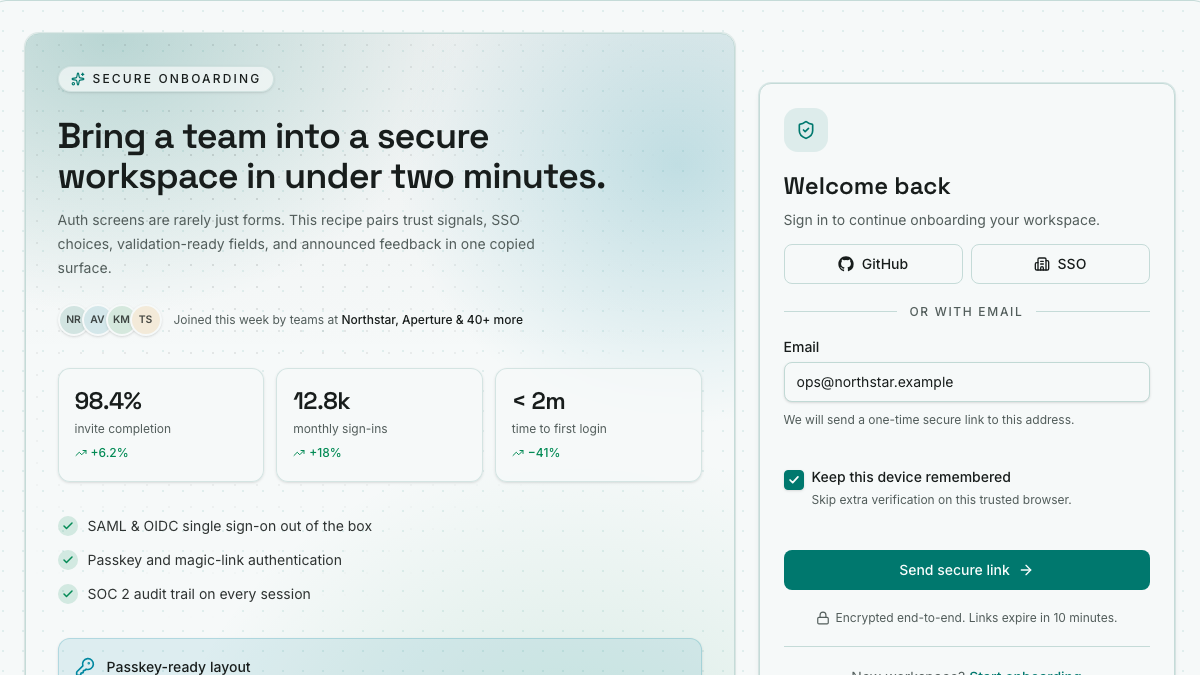
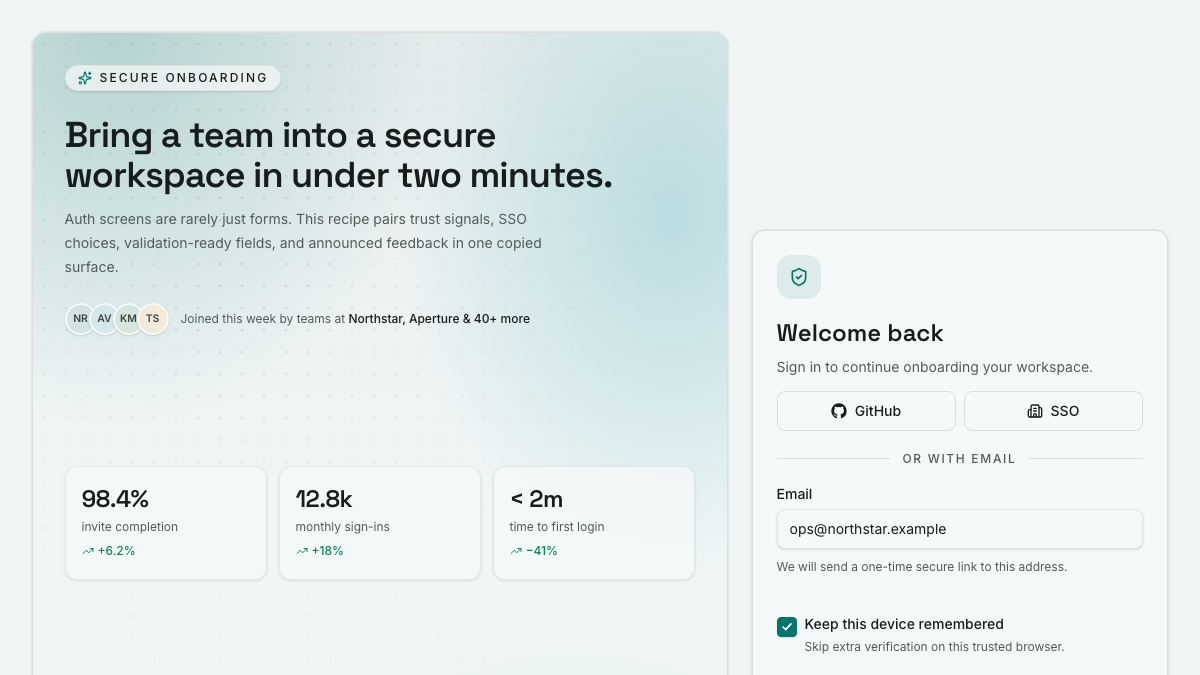
fix: prioritize login task on mobile

diff --git a/e2e/showcase-recipe-full-page.spec.ts b/e2e/showcase-recipe-full-page.spec.ts
@@ -430,9 +430,7 @@ test.describe("showcase full-page recipe shell", () => {
 
     const preview = page.locator("[data-scheduler-public-preview]");
     const title = preview.locator('[data-slot="slot-picker-title"]');
-    const viewSwitch = preview.locator(
-      '[data-slot="slot-picker-view-switch"]',
-    );
+    const viewSwitch = preview.locator('[data-slot="slot-picker-view-switch"]');
     const periodControls = preview
       .getByRole("button", { name: "Previous week" })
       .locator("..");
@@ -455,5 +453,40 @@ test.describe("showcase full-page recipe shell", () => {
         viewBounds!.y + viewBounds!.height,
       ),
     );
+  });
+
+  test("prioritizes the Login task on mobile and preserves desktop layout", async ({
+    page,
+  }) => {
+    await page.setViewportSize({ width: 390, height: 844 });
+    await page.goto("/recipes/login-and-onboarding");
+
+    const surface = page.locator(
+      '[data-recipe-surface="login-and-onboarding"]',
+    );
+    const form = page.locator("[data-login-form]");
+    const marketing = page.locator("[data-login-marketing]");
+    await expect(form).toBeVisible();
+    await expect(marketing).toBeVisible();
+
+    const mobileFormBounds = await form.boundingBox();
+    const mobileMarketingBounds = await marketing.boundingBox();
+    expect(mobileFormBounds).not.toBeNull();
+    expect(mobileMarketingBounds).not.toBeNull();
+    expect(mobileFormBounds!.y).toBeLessThan(mobileMarketingBounds!.y);
+    expect(
+      await surface
+        .locator("button, input, a[href]")
+        .first()
+        .evaluate((node) => node.closest("[data-login-form]") !== null),
+    ).toBe(true);
+
+    await page.setViewportSize({ width: 1440, height: 900 });
+    const desktopFormBounds = await form.boundingBox();
+    const desktopMarketingBounds = await marketing.boundingBox();
+    expect(desktopFormBounds).not.toBeNull();
+    expect(desktopMarketingBounds).not.toBeNull();
+    expect(desktopMarketingBounds!.x).toBeLessThan(desktopFormBounds!.x);
+    expect(desktopMarketingBounds!.y).toBe(desktopFormBounds!.y);
   });
 });

diff --git a/apps/showcase/src/examples/recipes/login-and-onboarding.tsx b/apps/showcase/src/examples/recipes/login-and-onboarding.tsx
@@ -195,7 +195,18 @@ export function LoginAndOnboardingRecipe({
             : ""
         }`}
       >
-        <section className="border-border ring-border/50 relative overflow-hidden rounded-xl border shadow-sm ring-1 motion-safe:transition-transform motion-safe:duration-300 hover:motion-safe:-translate-y-1">
+        <section
+          data-login-form
+          aria-label="Sign in form"
+          className="flex items-center justify-center lg:col-start-2 lg:row-start-1"
+        >
+          <LoginPanel />
+        </section>
+
+        <section
+          data-login-marketing
+          className="border-border ring-border/50 relative overflow-hidden rounded-xl border shadow-sm ring-1 motion-safe:transition-transform motion-safe:duration-300 hover:motion-safe:-translate-y-1 lg:col-start-1 lg:row-start-1"
+        >
           <span
             aria-hidden="true"
             style={panelBackdropStyle}
@@ -299,13 +310,6 @@ export function LoginAndOnboardingRecipe({
               tone="info"
             />
           </div>
-        </section>
-
-        <section
-          aria-label="Sign in form"
-          className="flex items-center justify-center"
-        >
-          <LoginPanel />
         </section>
       </div>
       <ToastViewport />

diff --git a/docs/showcase/recipe-alignment-follow-up-issues.md b/docs/showcase/recipe-alignment-follow-up-issues.md
@@ -30,7 +30,7 @@
 ## Local Issue 4 — Login Mobile Task Priority
 
 - GitHub: [#409](https://github.com/parveshh/dethink-components/issues/409).
-- Status: Blocked by Local Issue 3 in the branch stack.
+- Status: Completed.
 - Put the sign-in form first in mobile DOM and visual order while retaining marketing-left/form-right desktop placement.
 - Verify keyboard order, responsive geometry, and full content retention.
 
